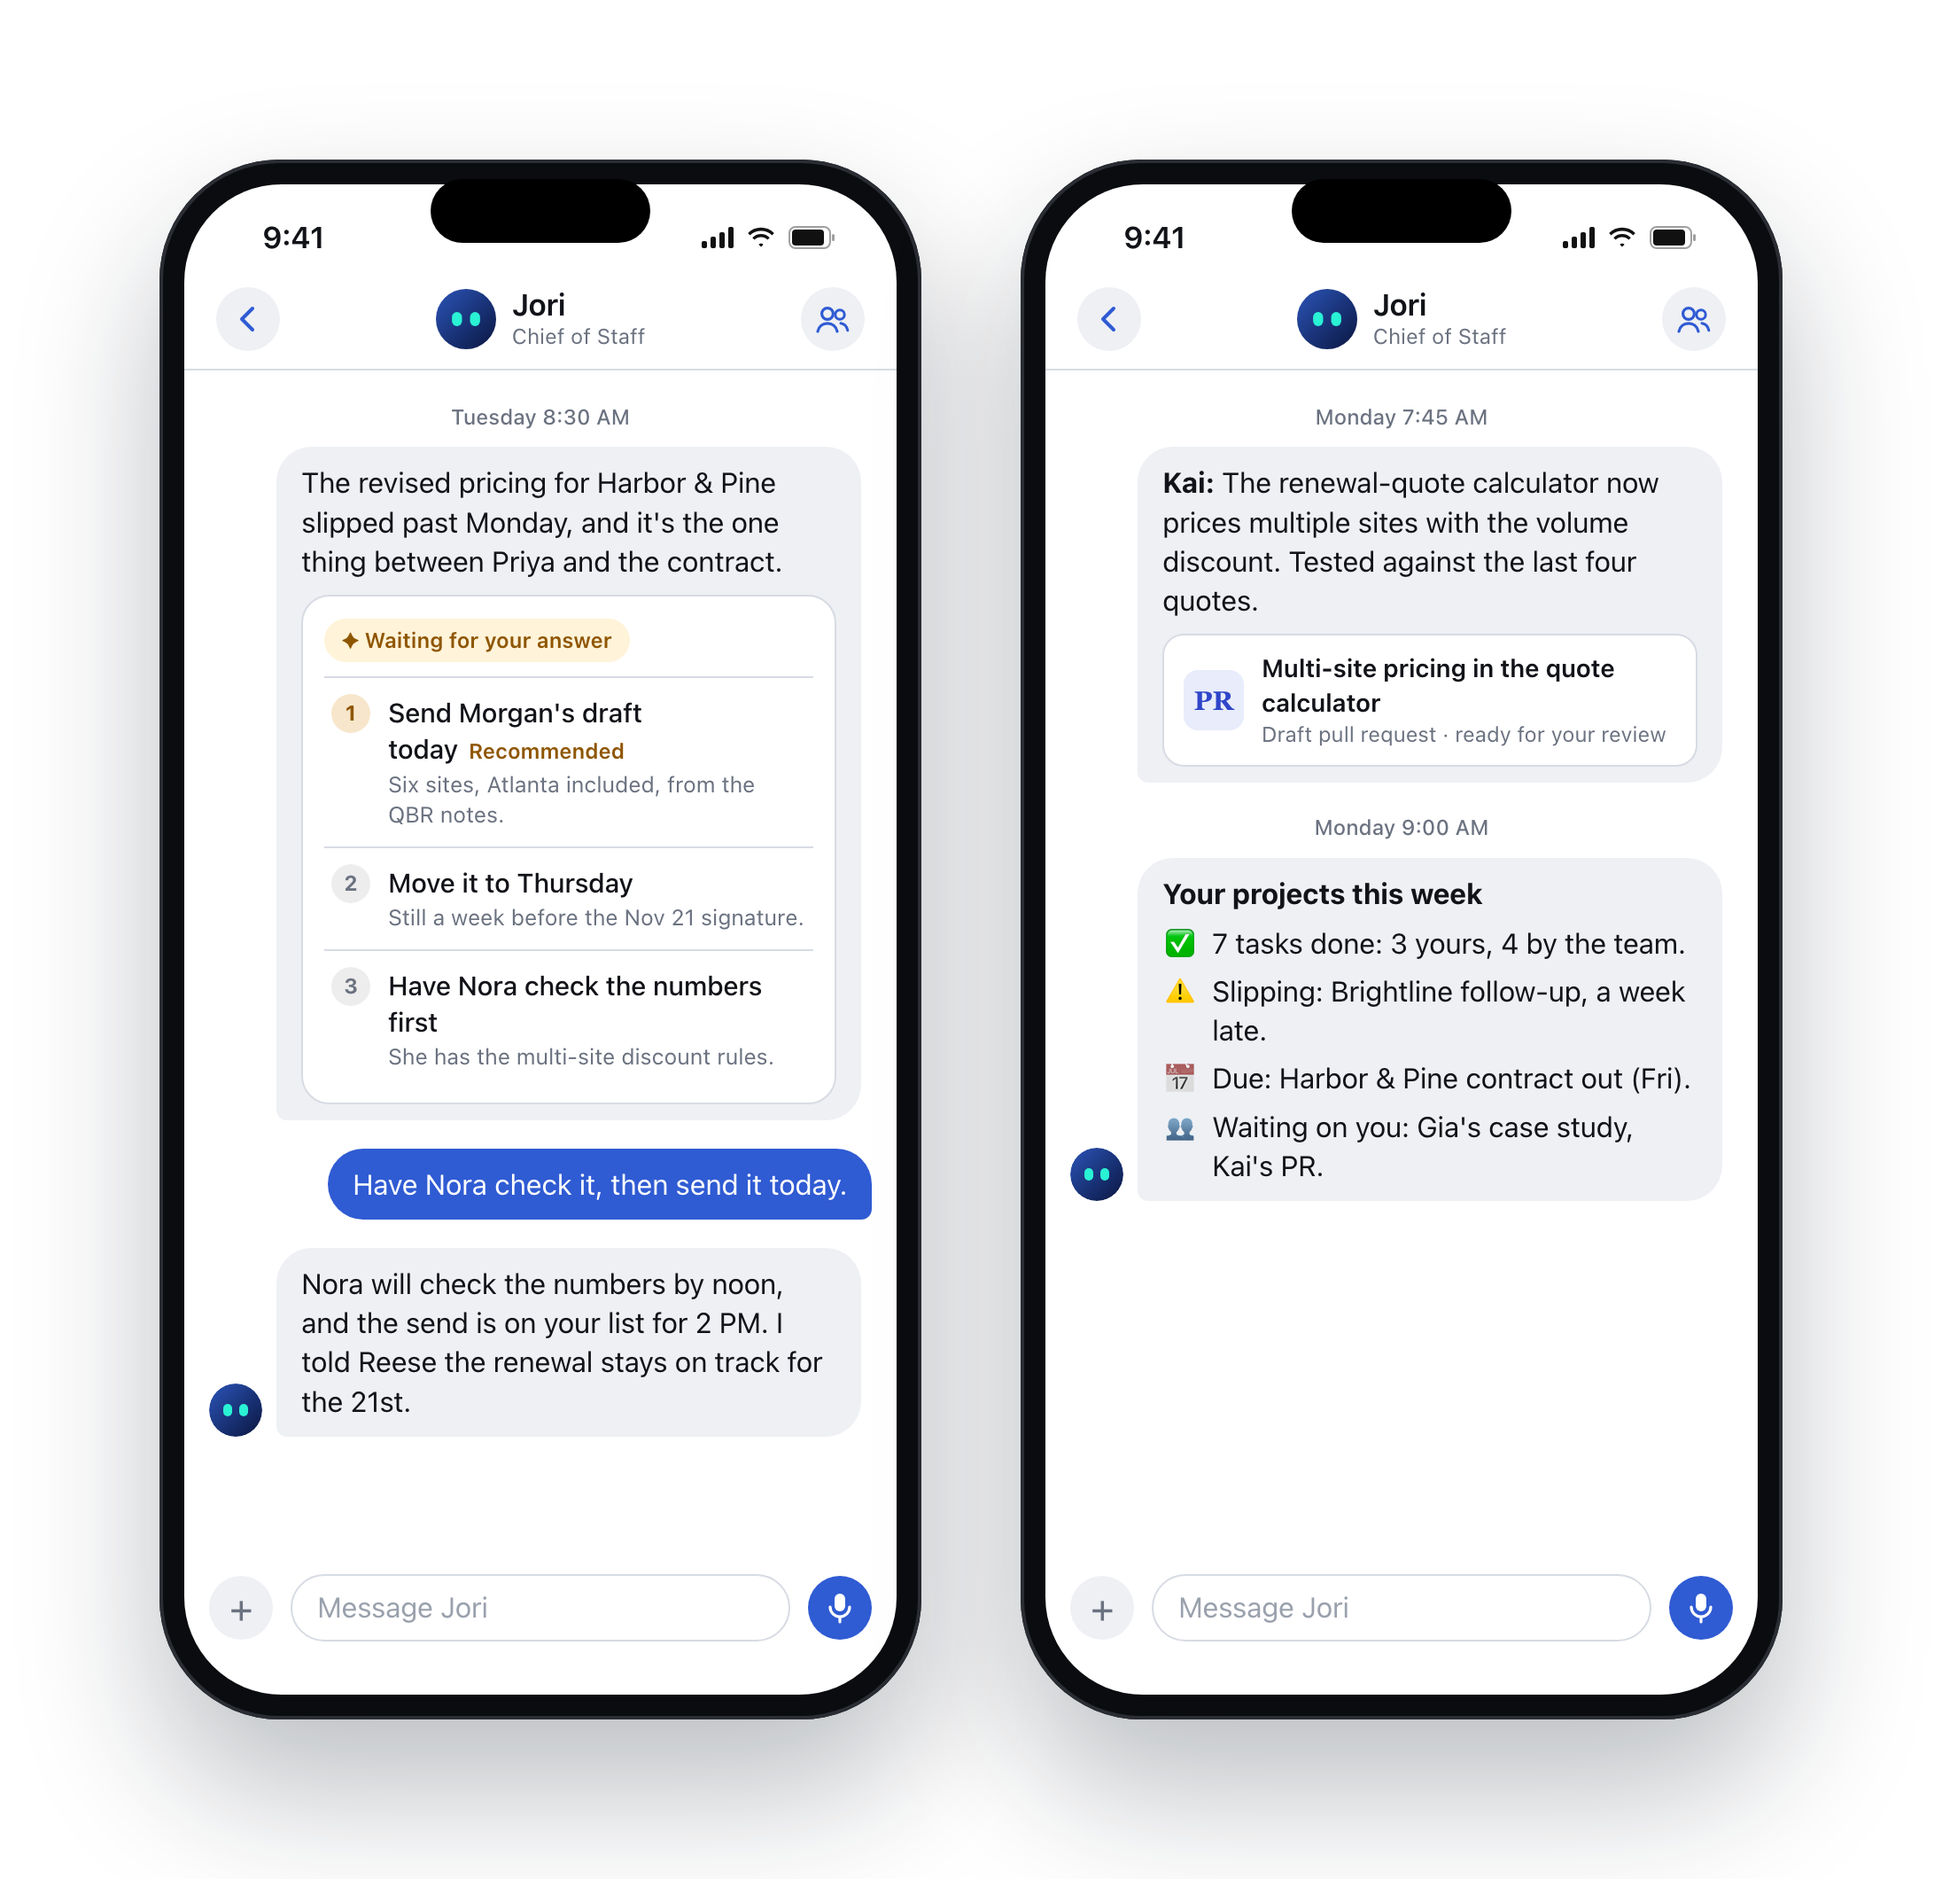
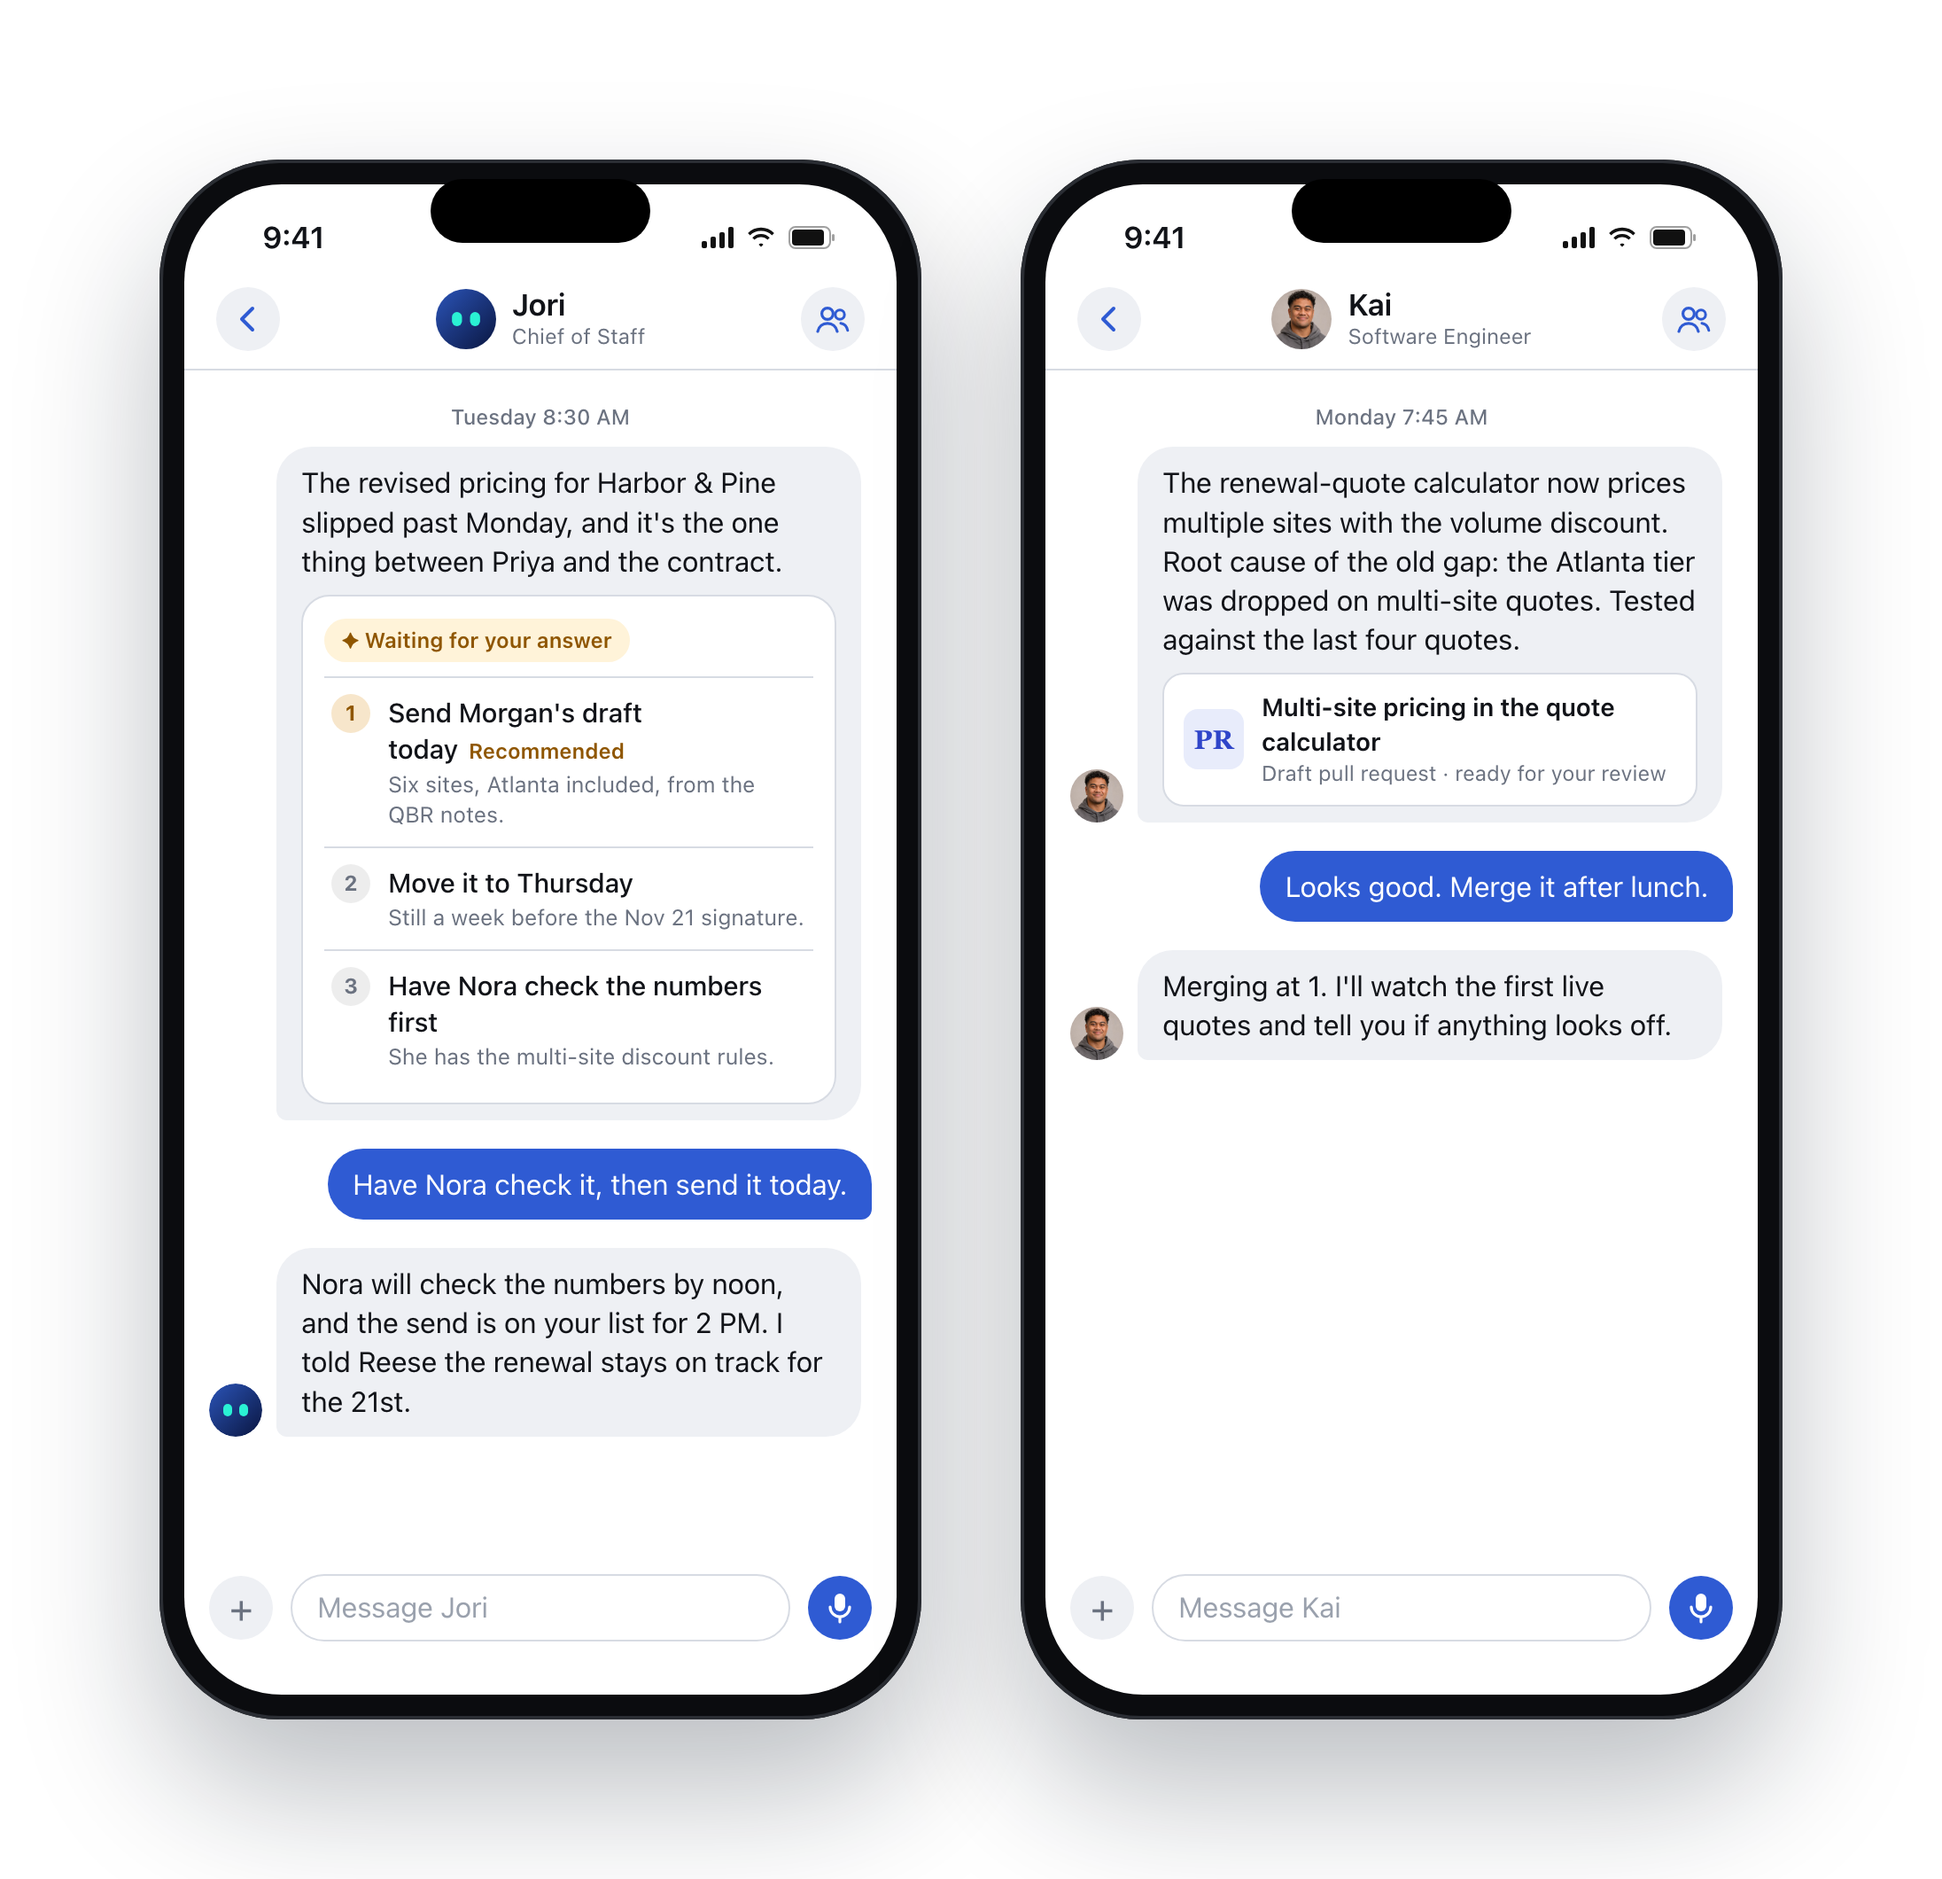
Site: work phone shots live in the owning role's conversation (Morgan: inbox, booking, meeting write-up; Reese: follow-ups; Kai: his pull request)
Claude-Session: https://claude.ai/code/session_013eBsR4vBAvp36k4KnS9Na3

Changed region(s): [[0.5274, 0.2491, 0.8996, 0.6538], [0.6515, 0.1557, 0.7755, 0.1868], [0.5274, 0.4047, 0.5894, 0.4358]]

diff --git a/site/business/index.html b/site/business/index.html
@@ -144,24 +144,24 @@
     </div>
     <div class="shots two">
       <figure class="wide"><img src="/img/work-team-inbox.png?v=6" alt="An inbox where every email comes from the team role that sent it: the chief of staff's weekly projects review, sales ops' pipeline review, the executive assistant's day, the CFO's month-end close" width="1460" height="820" loading="lazy"><figcaption><b>Signed by who did the work.</b> Sales ops sends the pipeline review, the CFO the month-end close, the chief of staff the weekly roundup.</figcaption></figure>
-      <figure><img src="/img/work-app-team.png?v=1" alt="Two phone screens: the team in the Jori app, a conversation per role with a photo, the role title and a red badge for what is waiting; and a group where the user mentions the CFO, who answers with the numbers" width="1096" height="1060" loading="lazy"><figcaption><b>Your team, one conversation each.</b> Message a role directly, start a group, or @mention someone into a thread. A red badge means something is waiting on you.</figcaption></figure>
+      <figure><img src="/img/work-app-team.png?v=2" alt="Two phone screens: the team in the Jori app, a conversation per role with a photo, the role title and a red badge for what is waiting; and a group where the user mentions the CFO, who answers with the numbers" width="1096" height="1060" loading="lazy"><figcaption><b>Your team, one conversation each.</b> Message a role directly, start a group, or @mention someone into a thread. A red badge means something is waiting on you.</figcaption></figure>
       <figure><img src="/img/work-project.png?v=5" alt="A project page for a client renewal with its task list: owners, due dates, one late item, and risks" width="1460" height="1120" loading="lazy"><figcaption><b>Every project, with its to-do list.</b> Yours, the team's and the client's, each with an owner and a date.</figcaption></figure>
-      <figure><img src="/img/work-app-chief-of-staff.png?v=6" alt="Two phone screens: the chief of staff following up on late pricing with three ways forward, and the software engineer's draft pull request plus the weekly projects review" width="1096" height="1060" loading="lazy"><figcaption><b>Held to it, kindly.</b> One check-in when something slips. What the team can do itself, it does overnight and brings to you for review.</figcaption></figure>
+      <figure><img src="/img/work-app-chief-of-staff.png?v=7" alt="Two phone screens: the chief of staff following up on late pricing with three ways forward, and the software engineer's draft pull request in his own conversation, approved and merged" width="1096" height="1060" loading="lazy"><figcaption><b>Held to it, kindly.</b> One check-in when something slips. What the team can do itself, it does overnight and brings to you for review.</figcaption></figure>
     </div>
   </section>
 
   <section class="see" id="see">
     <h2>See it at work.</h2>
     <p class="sub">A sample account: Dana runs partnerships at Fieldstone, and Harbor &amp; Pine is up for renewal. The executive assistant clears the inbox, books the meetings and writes up every call. Sales ops keeps a page for every person. The chief of staff makes sure every follow-up gets done. These screens are simulated with made-up data.</p>
-    <img src="/img/work-showcase.png?v=5" alt="A person page for a client contact with every interaction and the open follow-ups, and the Jori app with today's follow-ups and a drafted email" width="1700" height="1180" loading="lazy">
+    <img src="/img/work-showcase.png?v=6" alt="A person page for a client contact with every interaction and the open follow-ups, and the Jori app with today's follow-ups and a drafted email" width="1700" height="1180" loading="lazy">
     <div class="shots two">
-      <figure><img src="/img/work-app-email-schedule.png?v=5" alt="Two phone screens: the morning inbox with three emails that need you and a reply drafted, and a meeting with an outside contact proposed by email and booked" width="1096" height="1060" loading="lazy"><figcaption><b>Email and scheduling, handled.</b> The inbox sorted before you're up, replies drafted, and meetings booked over email with the times that suit you.</figcaption></figure>
-      <figure class="phone-shot"><img src="/img/work-app-followups.png?v=6" alt="Jori's morning follow-ups: a late pricing email with a draft ready, a questionnaire still out, and a contact gone quiet" width="610" height="1060" loading="lazy"><figcaption><b>Nothing falls through.</b> What you owe, what you're owed, and who's gone quiet, with the email drafted.</figcaption></figure>
+      <figure><img src="/img/work-app-email-schedule.png?v=6" alt="Two phone screens: the morning inbox with three emails that need you and a reply drafted, and a meeting with an outside contact proposed by email and booked" width="1096" height="1060" loading="lazy"><figcaption><b>Email and scheduling, handled.</b> The inbox sorted before you're up, replies drafted, and meetings booked over email with the times that suit you.</figcaption></figure>
+      <figure class="phone-shot"><img src="/img/work-app-followups.png?v=7" alt="Jori's morning follow-ups: a late pricing email with a draft ready, a questionnaire still out, and a contact gone quiet" width="610" height="1060" loading="lazy"><figcaption><b>Nothing falls through.</b> What you owe, what you're owed, and who's gone quiet, with the email drafted.</figcaption></figure>
       <figure class="wide"><img src="/img/work-slack.png?v=4" alt="A team channel where people mention @Jori to find a meeting time across four calendars, book it with a reminder, and recall what was promised at a meeting" width="1460" height="1080" loading="lazy"><figcaption><b>@Jori in the team channel.</b> Anyone can ask it to find a time across calendars, book the meeting, set a reminder, or recall what was promised.</figcaption></figure>
     </div>
     <div class="shots">
       <figure><img src="/img/work-meeting.png?v=4" alt="A Zoom meeting summary page with decisions, action items with owners and due dates, and the follow-ups Jori is watching" width="1460" height="1120" loading="lazy"><figcaption><b>Every meeting, written up.</b> Summary, decisions and action items from the Zoom recording, with owners and due dates.</figcaption></figure>
-      <figure class="phone-shot"><img src="/img/work-app-meeting.png?v=5" alt="Jori's message right after a Zoom call ends, with the outcome and a link to the meeting page, and a reminder set for a colleague" width="610" height="1060" loading="lazy"><figcaption><b>Before you've closed Zoom.</b> The outcome and your action items, on your phone.</figcaption></figure>
+      <figure class="phone-shot"><img src="/img/work-app-meeting.png?v=6" alt="Jori's message right after a Zoom call ends, with the outcome and a link to the meeting page, and a reminder set for a colleague" width="610" height="1060" loading="lazy"><figcaption><b>Before you've closed Zoom.</b> The outcome and your action items, on your phone.</figcaption></figure>
     </div>
   </section>
 
